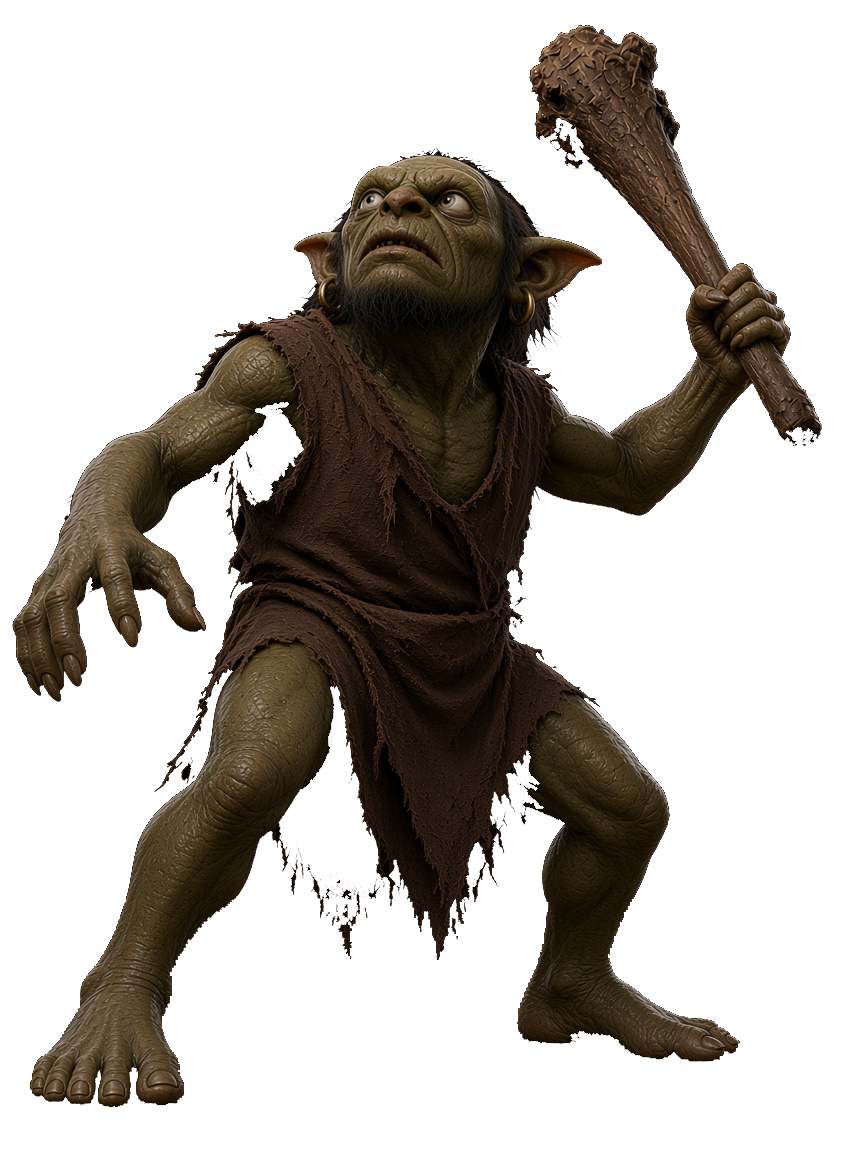
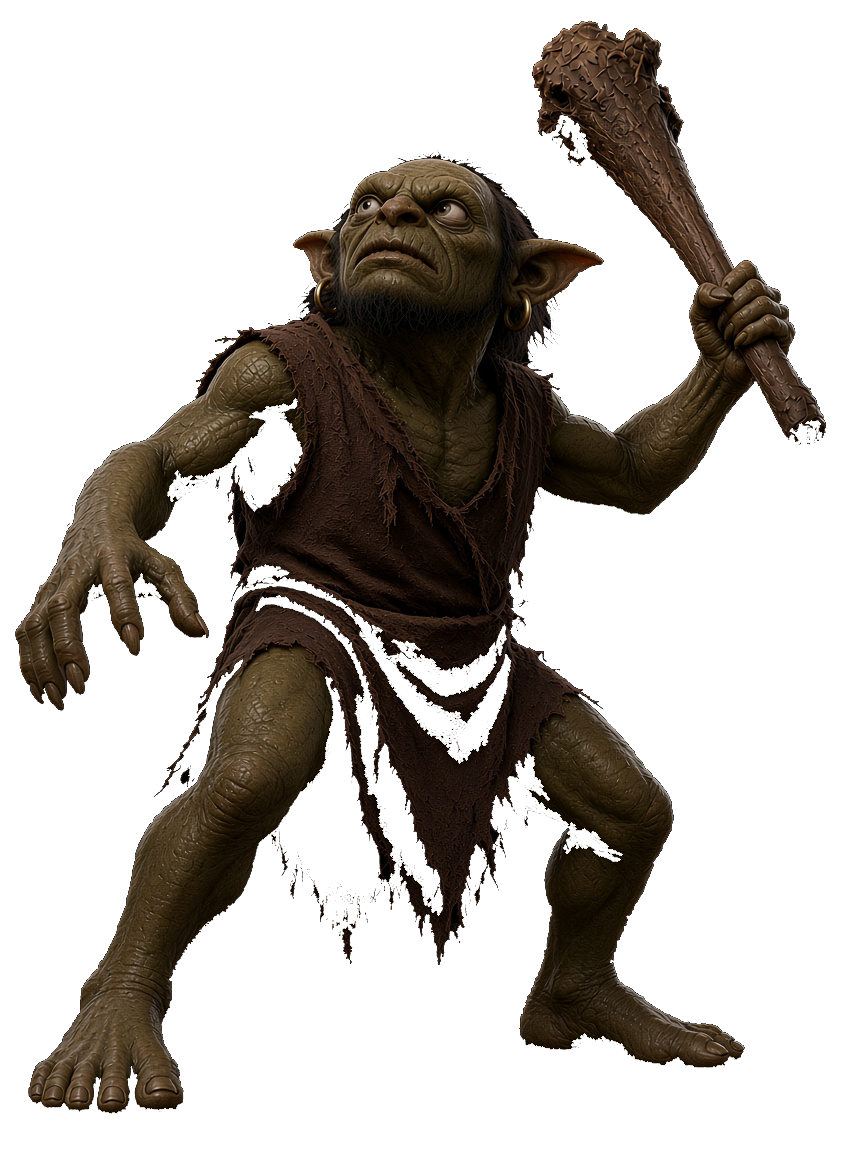
ゴブリンの見上げを緩める。
あごの反りを抑え、視線は左上のままにする。

diff --git a/index.html b/index.html
@@ -9752,7 +9752,7 @@
       },
       {
         name: "ゴブリン",
-        image: "enemy-goblin.png?v=9",
+        image: "enemy-goblin.png?v=10",
         tier: 1,
         rank: "雑魚",
         stature: "small",
@@ -10934,7 +10934,7 @@
     // 絵の余白。見える体の高さを自分に合わせるときに使う。
     const FOE_INK = {
       "enemy-slime.png": { w: 864, h: 1152, top: 88, bottom: 64, left: 29, right: 857 },
-      "enemy-goblin.png": { w: 864, h: 1152, top: 25, bottom: 44, left: 12, right: 821 },
+      "enemy-goblin.png": { w: 864, h: 1152, top: 20, bottom: 38, left: 15, right: 825 },
       "enemy-kobold.png": { w: 864, h: 1152, top: 30, bottom: 18, left: 146, right: 701 },
       "enemy-minotaur.png": { w: 864, h: 1152, top: 1, bottom: 0, left: 36, right: 862 },
       "enemy-dragon.png": { w: 864, h: 1152, top: 123, bottom: 154, left: 33, right: 863 },
@@ -16403,7 +16403,7 @@
             <h3>敵</h3>
             <div class="ref-grid">
               ${sheetFig("enemy-slime.png?v=9", "スライム", "enemy-ref")}
-              ${sheetFig("enemy-goblin.png?v=9", "ゴブリン", "enemy-ref")}
+              ${sheetFig("enemy-goblin.png?v=10", "ゴブリン", "enemy-ref")}
               ${sheetFig("enemy-kobold.png?v=5", "コボルド", "enemy-ref")}
               ${sheetFig("enemy-troll.png?v=3", "トロール", "enemy-ref")}
               ${sheetFig("enemy-minotaur.png?v=8", "ミノタウロス", "enemy-ref")}
